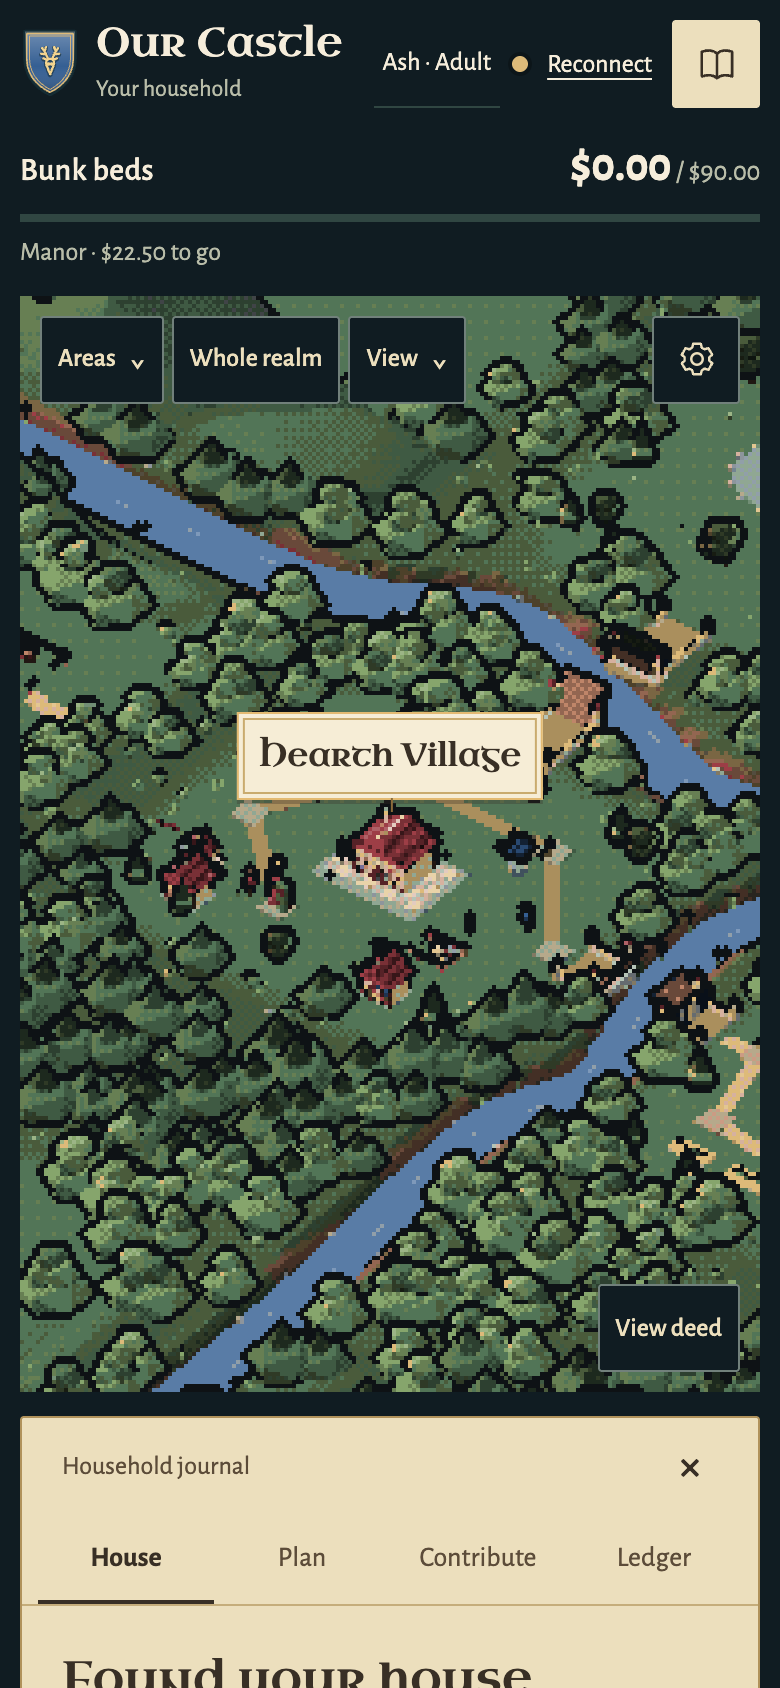
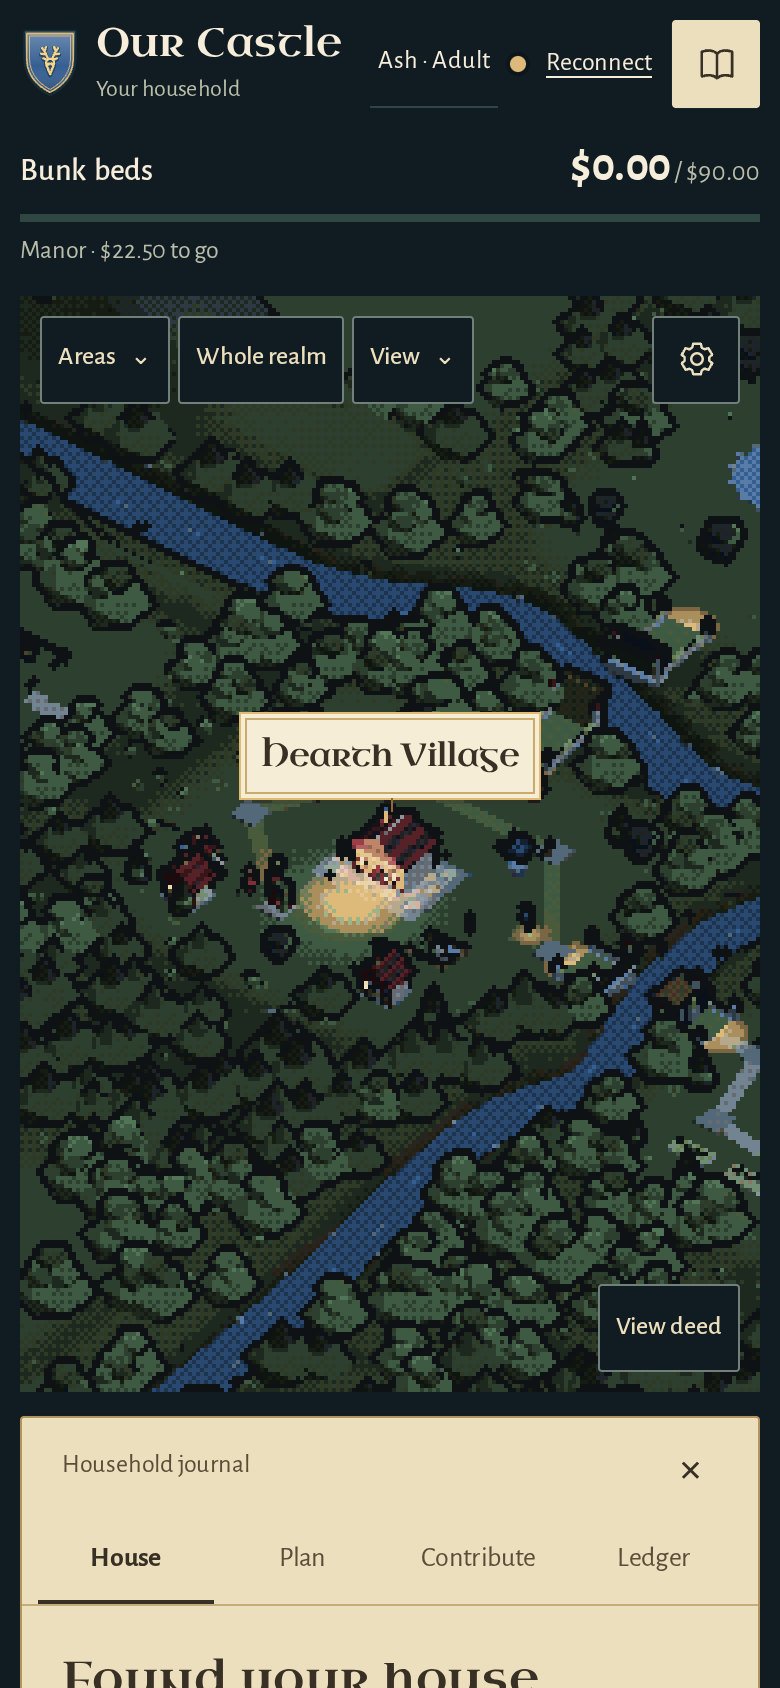
Keep deliberate focus after delayed deed close and repair browser checks

diff --git a/src/app/main.js b/src/app/main.js
@@ -840,11 +840,15 @@ function visitDeed(e) {
 // Closing (button or Escape) returns focus to its map button, or the district if that button became hidden.
 // A close event that arrives after the dialog was opened again belongs to the earlier deed and is ignored.
 function deedClosed() {
-  if ($('#deed-dialog').open) return;
+  const dialog = $('#deed-dialog');
+  if (dialog.open) return;
   const d = ui.deeds, id = d.queue[d.index];
-  const visiting = d.visiting;
+  const visiting = d.visiting, active = document.activeElement;
   Object.assign(d, { queue: [], index: 0, visiting: false });
   if (visiting) return;
+  // Closing restores focus in a later event. If the family has already chosen another control (for example, Visit
+  // your castle), respect that choice rather than pulling focus back to the card's old origin.
+  if (active !== document.body && active !== d.origin && !dialog.contains(active)) return;
   let target = d.origin;
   if (!target?.isConnected || target.closest('[hidden], details:not([open])')) {
     const marker = $(`#realm-markers [data-district="${CSS.escape(id ?? '')}"]`);

diff --git a/docs/BROWSER-REGRESSION-REVIEW.md b/docs/BROWSER-REGRESSION-REVIEW.md
@@ -1,0 +1,36 @@
+# Keyboard focus and reconnect regression review
+
+Independent follow-up to PR #20 at `7bd4bd92712d1d7d5afda2cec334847b2715a4f5`, November 6, 2026 (Pacific). Work ran in a separate checkout; Claude's Mac worktree and the owner apps were not changed.
+
+## Product fix: a delayed close event stole focus
+
+The existing desktop completed-goal test failed before the fix. Instrumentation recorded the exact sequence: **Visit your castle** focused the castle marker, then `deedClosed()` ran a few milliseconds later and focused the Journal button. The dialog's native `close` event had been delayed while the page rendered.
+
+The close handler still restores focus when it belongs to that close, but respects an outside control the family has deliberately focused in the meantime. Normal Escape, Close and Visit behavior retain their existing destinations. No layout, artwork or payment logic changes.
+
+The new browser regression closes a deed and selects the map or member selector in the same JavaScript task, then waits for the native close event. This exercises delayed-event ordering independent of rendering speed, without replacing the application's handlers or making another contribution.
+
+## Reconnect check: automatic recovery beat the test's click
+
+Claude's recorded desktop trace showed Playwright waiting for `#live-retry` to become visible until the 240-second test deadline. The device had come online and automatic recovery hid the button before the test clicked it. The unchanged test passed in the cloud baseline, confirming the failure was timing dependent.
+
+The manual-recovery part now gates stream requests until after the button click. It then releases the connection and checks live state, catch-up and the hidden connection control. The second drop tests automatic recovery with no gate, followed by idle expiry, passkey sign-in and stream cleanup. No production retry or session rule was changed to satisfy the test.
+
+## Existing test maintenance
+
+- The multi-area deed test now waits for the board's actual animation state before expecting the queued cards, as the completed-goal test already did. A cloud run demonstrated that the previous 15-second card expectation could expire while the normal route walk was still running. The queued cards, milestone text, Visit, focus, visibility and no-write assertions remain.
+- The cancellation journey expected two labels removed by earlier payment-recovery work. It now checks **Checkout closed** and the canonical status, progress and credited-capture count after cancellation, decline and pending. Completion still must produce exactly one credit; selecting failed attempts must not change the total or expose completion/refund actions. The trace showed ambient rendering consuming the software browser's action budget, so this money/status case now uses the supported reduced-motion preference, as the Merchant and shared-family cases already do. Normal animation checks remain separate. These are test corrections, with no change to payment outcomes.
+
+## Evidence and scope
+
+**14 distinct viewport cases passed: seven desktop and seven phone.** The original desktop focus check failed in `before.log`; the unchanged reconnect check passed there, while Claude's earlier trace establishes its click/automatic-recovery race. `focus-diagnostic.log` records the delayed close handler taking focus from the castle.
+
+Final passes are in `after-focused.log` (3 desktop), `desktop-regressions.log` (2 desktop passes, with 2 further timing failures subsequently corrected), `desktop-final.log` (those 2 desktop cases passed), `phone-final.log` (5 phone passes, 2 startup failures) and `phone-map-isolated.log` / `phone-close-isolated.log` (each remaining phone case passed unchanged in a fresh process). These logs are under ignored `test-results/live-review/`.
+
+The phone batch's startup failures were a page-ready timeout and a browser-context setup protocol error (`Browser.setDownloadBehavior`: context not found). Their cause was not established; no automatic retry, skip or application change was introduced for them. The individual fresh-process passes verify those checks, rather than turning the original batch into a green run. [VALIDATION.md](VALIDATION.md) retains the earlier full-suite results and these limits. The full suite and unchanged unit tests were not repeated for this UI/test-only patch.
+
+The two Reconnect screenshots were refreshed from passing checks and visually inspected. The other three shared-family screenshots remain unchanged from the base commit, with all five image hashes verified. [The provenance file](screenshots/shared-live-sources.json) distinguishes the new captures from the retained images and records the relevant source hashes.
+
+Source/art/palette/syntax checks passed. Browser checks use headless Chromium with SwiftShader, emulated desktop/phone viewports, virtual passkeys, temporary databases and simulated payments. They establish no physical-device or live-provider result. There were no PayPal orders, paid model/catalog calls, real transactions, owner-data changes, video, deployment or submission.
+
+Review this patch with PR #20 before activation. PRs #21 (SDK loading), #22 (request/session revocation) and #23 (Merchant freshness) remain separate review items.

diff --git a/docs/VALIDATION.md b/docs/VALIDATION.md
@@ -28,9 +28,13 @@ Claude branch `claude/shared-live-integration` from `main` `86c8287` (PR #20; no
 - Eight failures (`channel3-merchant` ×2, `connected-journey` and `area-cards`, each on both projects) came from an intermediate version of this branch that held a newly opened area's deed while focus was in a text field. After "Save as our goal" the page focuses the goal name, so the family's own deed waited. That deferral was removed; deeds show at once, as on main.
 - The other two are `journey.spec.mjs` "cancel, decline and pending outcomes…" on both projects. It expects "Nothing was charged", text that `origin/main`'s app has not rendered since `1dd3952`, so it fails on main as well. It was left for its owner.
 
-**Final run after the fixes (in progress when this was written):** `area-cards` "four journey tabs … visits the castle" still fails on desktop: the castle marker is not focused after **Visit your castle**. The same test passes at `944457f` (the integration before the live work), so a live-work commit causes it in example mode. It is not yet diagnosed and is the open blocker. The other results of that run were not collected before work stopped. `npm run check` passed.
+**Completed run before the Codex follow-up (`7bd4bd9`): 44 passed, 10 deliberate viewport skips, 2 failed (20.6 min).** The desktop completed-goal case lost keyboard focus after **Visit your castle**. The desktop reconnect/idle case reached its 240-second deadline; its trace showed the test waiting to click a Reconnect control that automatic recovery had already hidden.
 
-Captures: `docs/screenshots/shared-live-*.png` with [provenance](screenshots/shared-live-sources.json).
+**Codex follow-up: 14 distinct viewport cases passed (7 desktop, 7 phone), across focused runs.** The delayed deed-close handler now respects a later deliberate focus choice. The manual-reconnect check gates the stream until after the click, and still separately tests automatic recovery and idle expiry. The multi-area card check waits for the board animation to finish. The pre-existing cancellation journey's stale labels are corrected, with canonical zero-credit/status assertions added after each unsuccessful or pending attempt. Its money/status checks use the supported reduced-motion preference; normal animations remain covered separately. Checks cover normal Escape, queued deeds, map Visit, completed-goal navigation, delayed close after navigation, cancel/decline/pending/completion, and shared-family reconnect/idle expiry and phone fit. See [BROWSER-REGRESSION-REVIEW.md](BROWSER-REGRESSION-REVIEW.md) for the diagnoses and exact scope. `npm run check` and diff checks passed; the 56-case run was not repeated.
+
+**Run caveat:** the initial phone batch passed 5 cases and hit 2 startup failures: a page never reached its ready flag before the deadline, and another case failed while creating the browser context (`Browser.setDownloadBehavior`: context not found). Those two cases were each repeated once in a fresh Playwright process, with no further source or assertion change, and passed. The cause of those startup failures was not established. Both the failures and isolated reruns remain in `test-results/live-review/`; no automatic retries or skips were added. The desktop checks also recorded and corrected the animation wait and the money/status case's software-rendering budget before their final passes.
+
+Captures: `docs/screenshots/shared-live-*.png` with [provenance](screenshots/shared-live-sources.json). Only the desktop and phone Reconnect captures were refreshed in the Codex follow-up; the other three were retained from the base commit with their hashes checked. Relevant capture-source hashes are recorded separately.
 
 **Limits.**
 - One server process and one SQLite file, as before; live state (revisions, streams) is in memory and restarts with the server. Several server processes would need a shared notifier.
